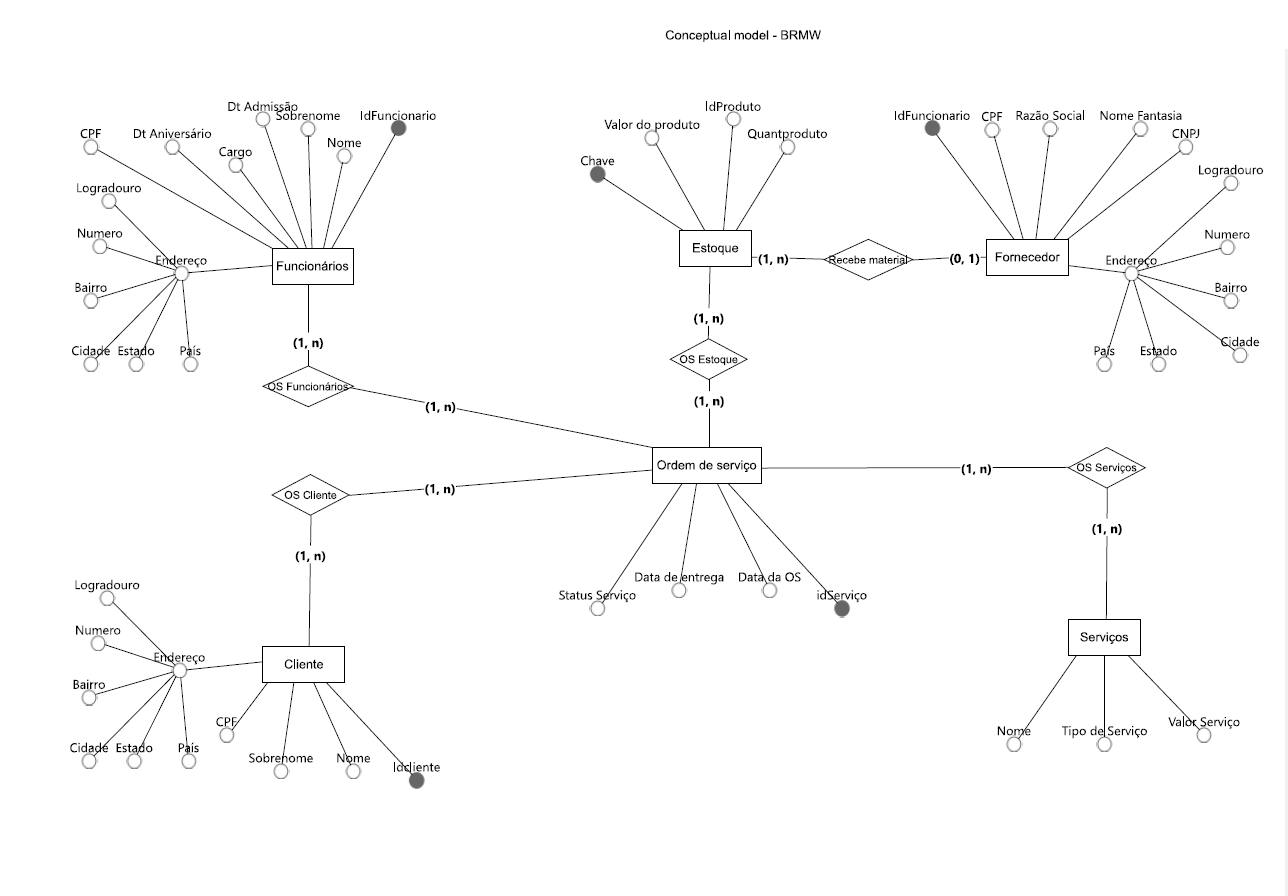
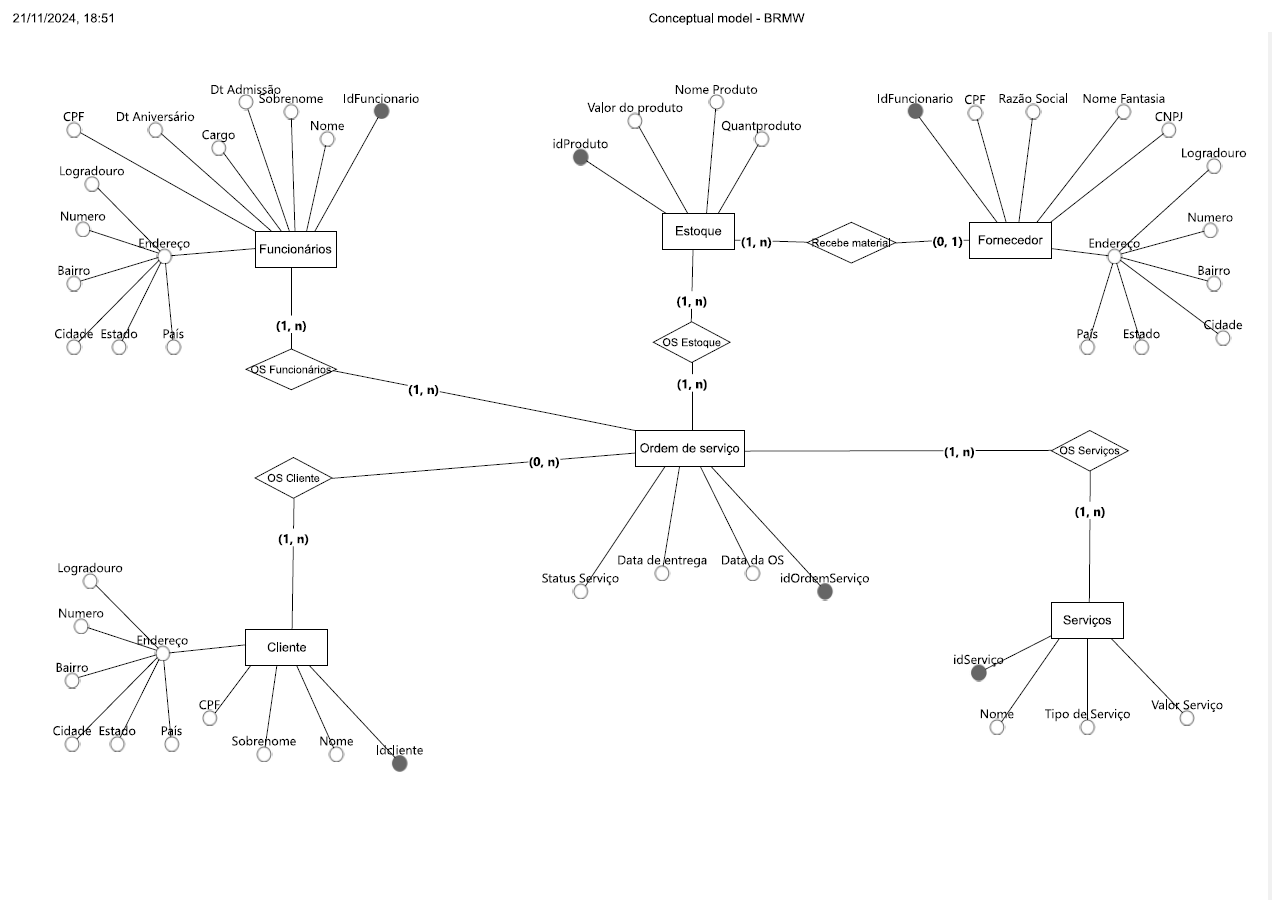
Update: IMG and README

diff --git a/README.md b/README.md
@@ -37,7 +37,7 @@ O modelo conceitual porpoem a criação de 6 entidades para projeto de banco de 
 
 ### Entidade Fornecedor
 
-<p align="justify">A entidade Fornecedor armazena as informações de todos os Fornecedores da oficina mecânica, como Razão Social, Nome Fantasia, CNPJ ou CPF e Endereço. A entidade Fornecedor está relacionada a entidade Estoque e, por meio deste relacionamento, é possivel verificar quais são dos produto foram mais vendidos por cada fornecedor, possibilitando uma comparação de valores de produtos semelhantes.</p>
+<p align="justify">A entidade Fornecedor armazena as informações de todos os Fornecedores da oficina mecânica, como <b>Razão Social, Nome Fantasia, CNPJ ou CPF e Endereço</b>. A entidade Fornecedor está relacionada a entidade Estoque e, por meio deste relacionamento, é possivel verificar quais são dos produto foram mais vendidos por cada fornecedor, possibilitando uma comparação de valores de produtos semelhantes.</p>
 
 ### Entidade Funcionários
 
@@ -45,12 +45,12 @@ O modelo conceitual porpoem a criação de 6 entidades para projeto de banco de 
 
 ### Estoque
 
-<p align="justify">A entidade Estoque recebe as informações de todos os produtos utilizados da oficina mecânica, como Nome do Produto, Valor de Compra, Valor de Venda e Quantidade. A entidade Estoque está relacionada às entidades Fornecedor e Ordem de Serviço. Por meio do relacionamento entre Estoque e Fornecedor, é possivel verificar quais são dos produtos que foram vendidos e seus respectivos fornecedores, possibilitando uma comparação de valores de produtos semelhantes. Por meio do relacionamento entre Estoque e Ordem de Serviço é possivel verificar quais produto 
+<p align="justify">A entidade Estoque recebe as informações de todos os produtos utilizados da oficina mecânica, como <b>Nome do Produto, Valor de Compra, Valor de Venda e Quantidade</b>. A entidade Estoque está relacionada às entidades Fornecedor e Ordem de Serviço. Por meio do relacionamento entre Estoque e Fornecedor, é possivel verificar quais são dos produtos que foram vendidos e seus respectivos fornecedores, possibilitando uma comparação de valores de produtos semelhantes. Por meio do relacionamento entre Estoque e Ordem de Serviço é possivel verificar quais produto 
 que foram solicitados para cada Ordem de Serviço e seus respectivos valores de venda.</p>
 
 ### Ordem de Serviço
 
-<p align="justify">A entidade Ordem de Serviço aramazena as informações<b>IdServiço, Data da OS, Data da Entrega, Status do Serviço</b>. Essas informações são geradas durante a criação da Ordem de Serviço, e por meio de relacionamentos possibilitam o rastreamento dos serviços a serem realizados, dos produtos utilizados que estão disponíveis na entidade Estoque e dos funcionário que executaram os serviços</p>
+<p align="justify">A entidade Ordem de Serviço aramazena as informações <b>IdServiço, Data da OS, Data da Entrega, Status do Serviço</b>. Essas informações são geradas durante a criação da Ordem de Serviço, e por meio de relacionamentos possibilitam o rastreamento dos serviços a serem realizados, dos produtos utilizados que estão disponíveis na entidade Estoque e dos funcionário que executaram os serviços</p>
 
 Por meio do relacionamento entre as entidades é possível rastrear todo o processo de criação das ordens de serviços, funcionários que executaram os serviços e valores dos serviços realizados.
 
